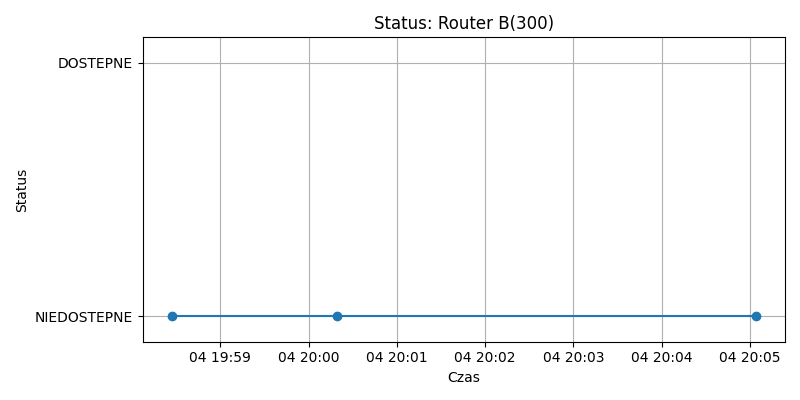
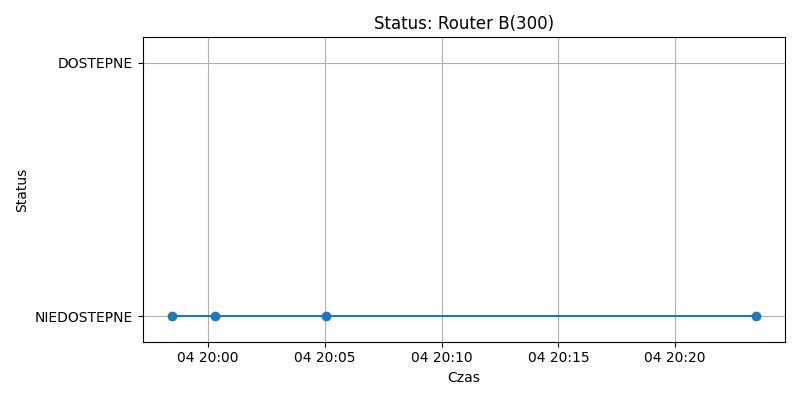
Automatyczna aktualizacja monitoringu

diff --git a/index.html b/index.html
@@ -16,5 +16,5 @@ body { font-family: Arial; text-align: center; margin: 30px; }
 <h1>Monitoring LAN</h1>
 <div class="card"><div class="status green">DOSTEPNE</div><div>Router A(500)</div></div>
 <div class="card"><div class="status red">NIEDOSTEPNE</div><div>Router B(300)</div></div>
-<p>Ostatnia zmiana: 2026-03-04 20:05:04</p>
+<p>Ostatnia zmiana: 2026-03-04 20:23:27</p>
 </body></html>
